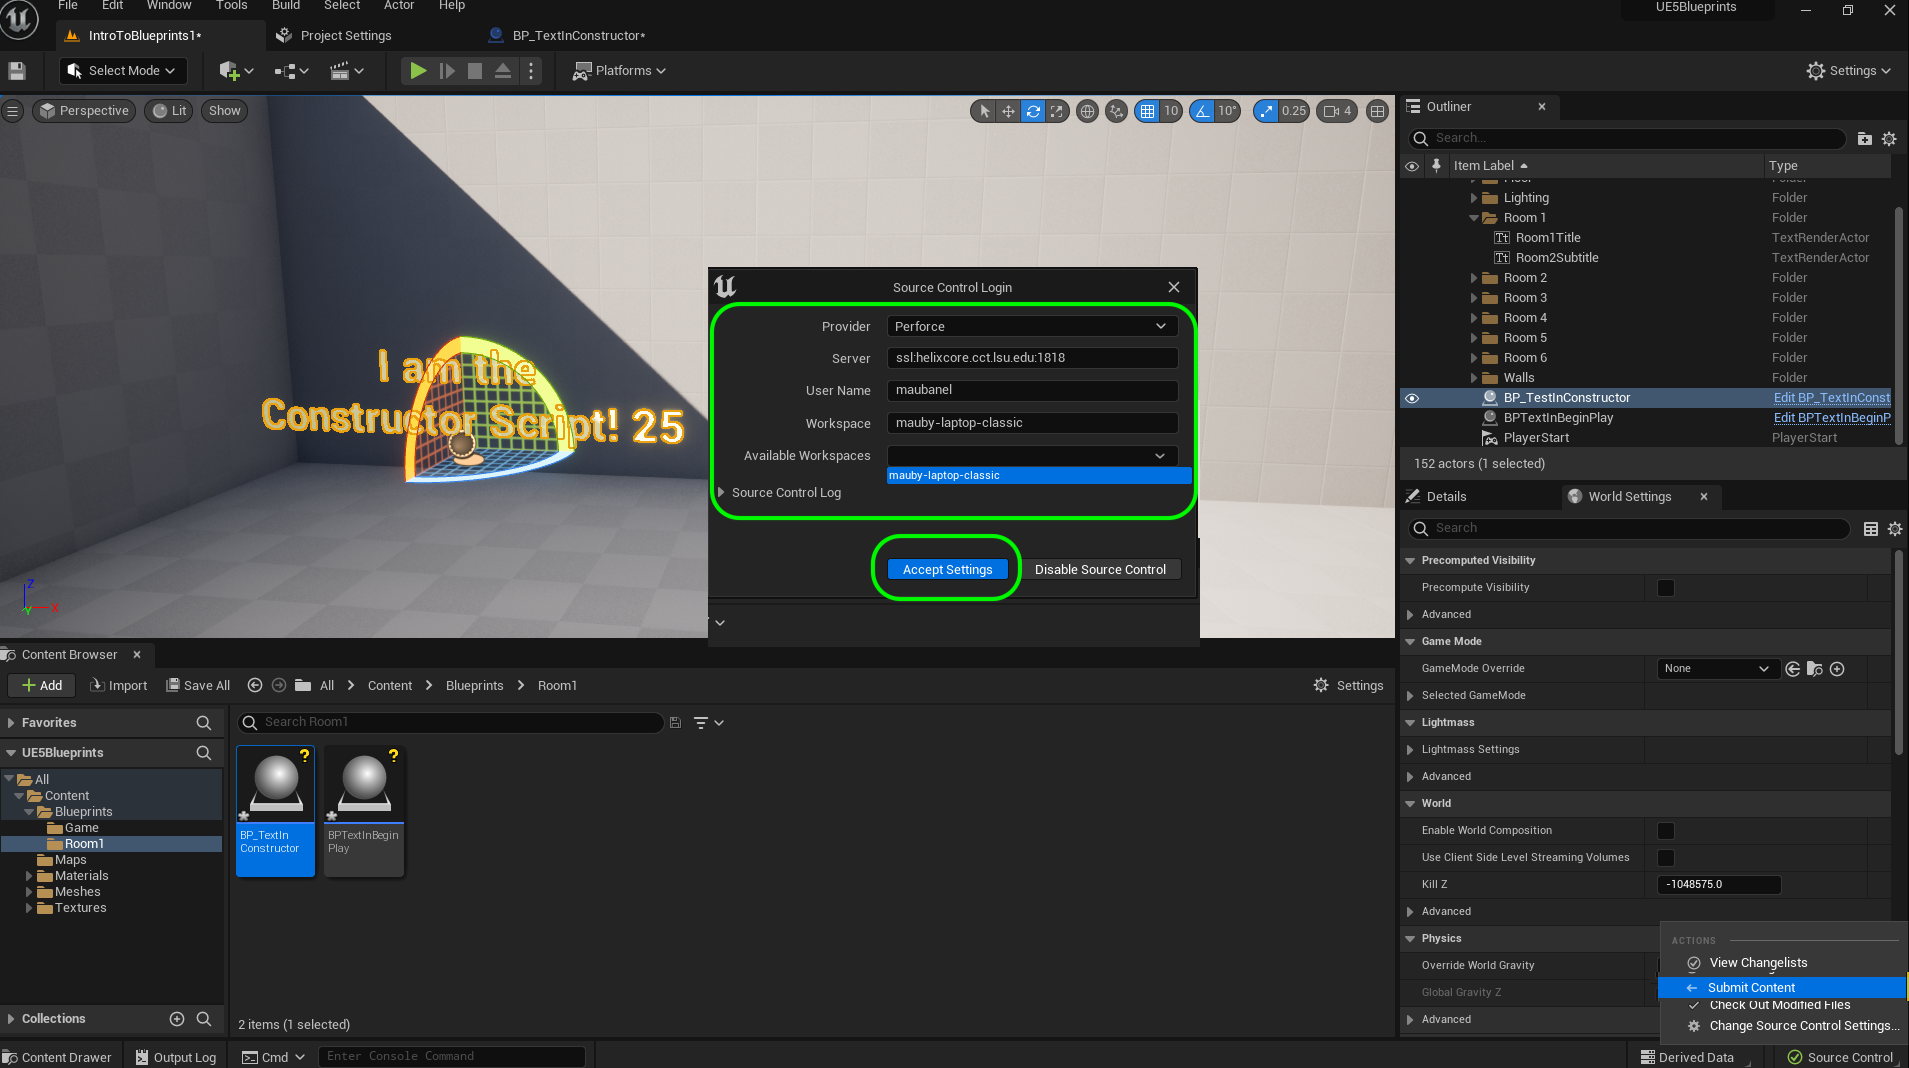
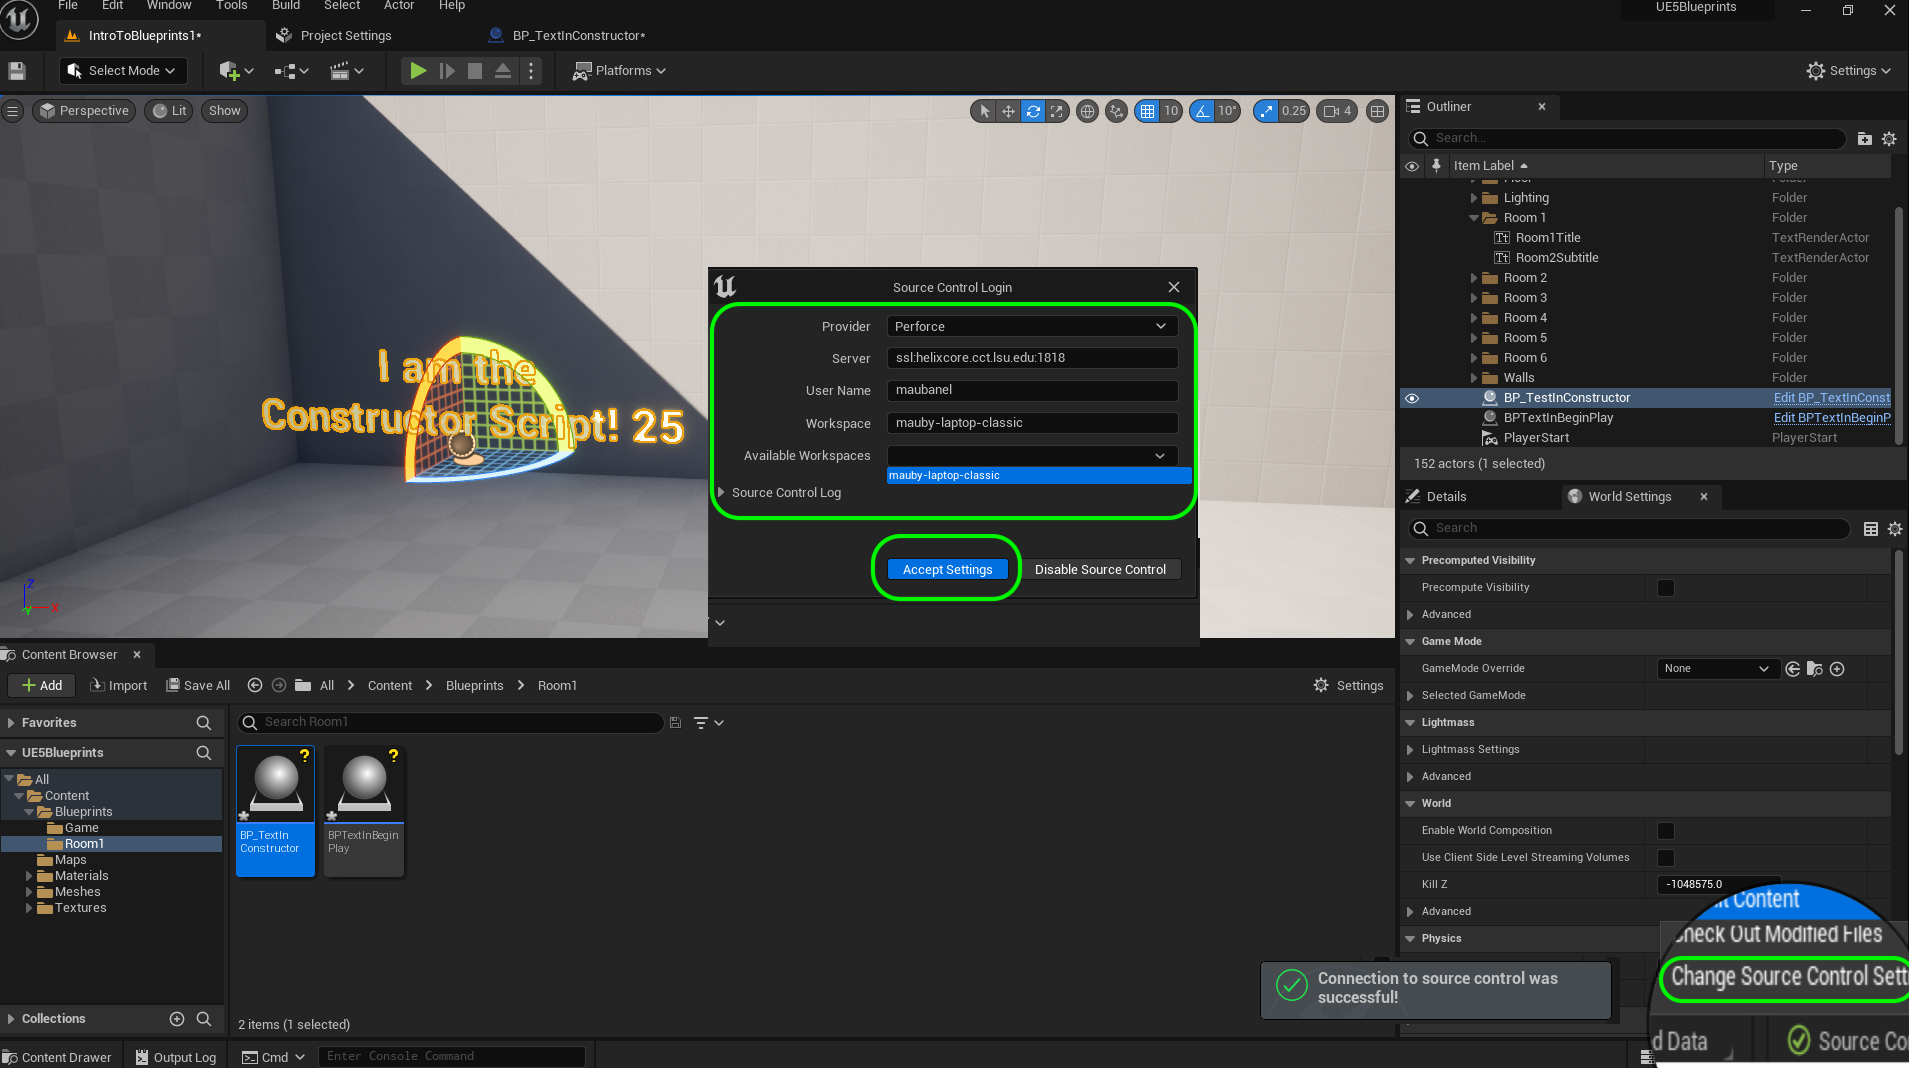
updating blueprints to ue5

Changed region(s): [[0.649, 0.8034, 1.0, 1.0]]

diff --git a/constructor-begin-ii/README.md b/constructor-begin-ii/README.md
@@ -119,7 +119,7 @@ https://user-images.githubusercontent.com/5504953/192163148-c63ee5f2-422c-44d4-8
 
 ##### `Step 13.`\|`ITB`| :large_blue_diamond: :small_blue_diamond: :small_blue_diamond:  :small_blue_diamond: 
 
-Lets connect Unreal with our Perforce repository. Click on **Source Control | Connect to Source Control...** and select the provider **Git (beta version)**. Click on the <kbd>Accept Settings</kbd> button.
+Lets connect Unreal with our Perforce repository. Click on **Source Control | Change Source Control Settings...** and select the provider **Perforce**. Click on the <kbd>Accept Settings</kbd> button.
 
 ![connect to source control with git](images/connectToSource.png)
 
@@ -127,13 +127,11 @@ Lets connect Unreal with our Perforce repository. Click on **Source Control | Co
 
 ##### `Step 14.`\|`ITB`| :large_blue_diamond: :small_blue_diamond: :small_blue_diamond: :small_blue_diamond:  :small_blue_diamond: 
 
-Press **File | Save All** then go into **Source Control | Submit to Source Control**, add a message that you have completed room 1 and press the <kbd>Submit</kbd> button. Open up **GitHub Desktop** and **Push** changes to server. The first time you do this it will say **Publish Branch**.  Select this to finish off this section.
+Select the **File | Save All** then quit UE5.   Go to **P4V** and go the top project folder (the one that holds the `.uproject` file and **Content** folder) and press the <kbd>+Add</kbd> then <kbd>OK</kbd> button.  This makes sure any files that Unreal didn't add get added to source control. Press the <kbd>Submit</kbd> button and enter a message explaining the work done.  Press <kbd>Submit</kbd>.
 
-![commit to source control in unreal](images/image_06.jpg)
 
-![push in github desktop](images/RmOneGithub.jpg)
+![commit to source control in unreal](images/p4Submit.png)
 
-![](../images/line2.png)
 
 ![](../images/line.png)
 
